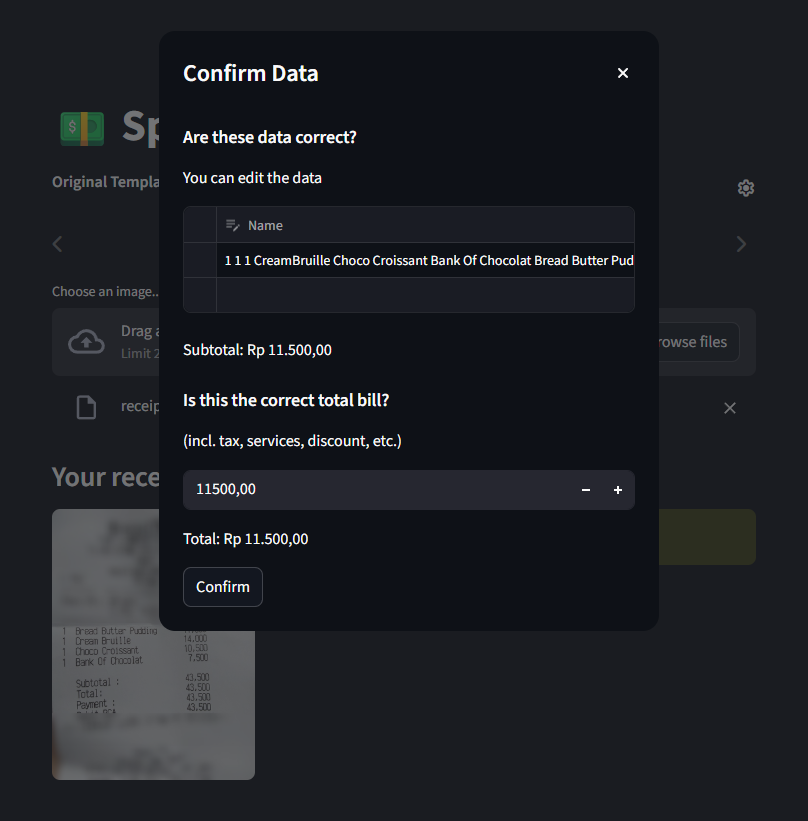
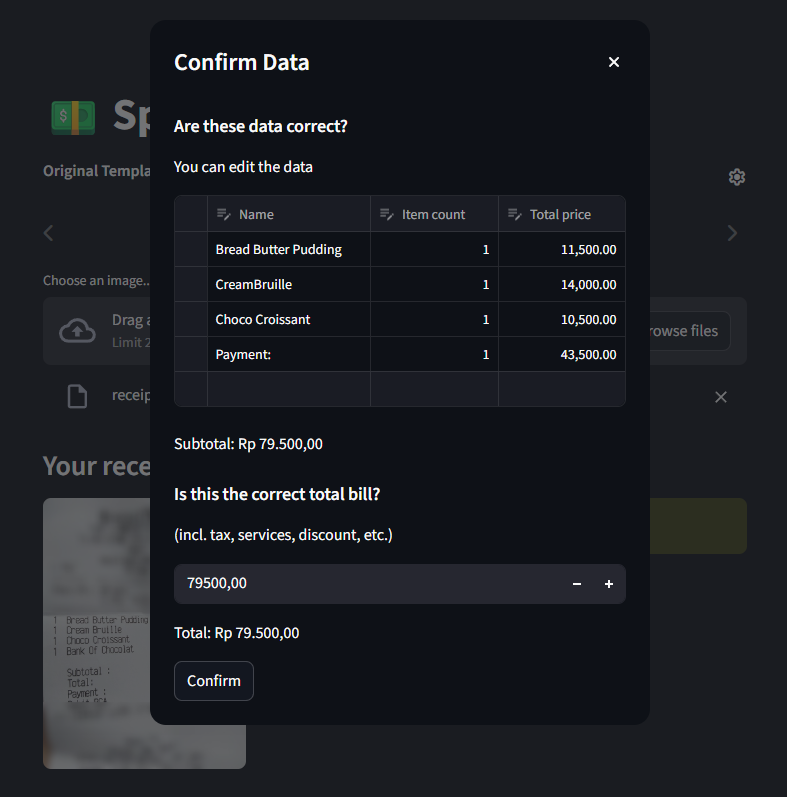
fix paddleocr logic and completed readme

diff --git a/modules/models/paddle_ocr.py b/modules/models/paddle_ocr.py
@@ -10,11 +10,7 @@ class PaddleOCRModel(AIModel):
         self.ocr = PaddleOCR(use_angle_cls=True, lang='en', use_gpu=False, show_log=False)
 
     def run(self, image: Image.Image) -> ReceiptData:
-        # 1. Prepare Image
         img_array = np.array(image.convert("RGB"))
-        
-        # 2. Run OCR
-        # result is a list of [box, (text, confidence)]
         result = self.ocr.ocr(img_array, cls=True)
         
         raw_elements = []
@@ -22,23 +18,30 @@ class PaddleOCRModel(AIModel):
             for line in result[0]:
                 box = line[0]
                 text = line[1][0]
-                # Use the center Y-coordinate for more stable line grouping
-                y_center = (box[0][1] + box[2][1]) / 2
+                # Calculate center Y and height of the text box
+                y_top = box[0][1]
+                y_bottom = box[2][1]
+                y_center = (y_top + y_bottom) / 2
+                height = y_bottom - y_top
                 x_start = box[0][0]
-                raw_elements.append({"text": text, "y": y_center, "x": x_start})
+                raw_elements.append({"text": text, "y": y_center, "x": x_start, "h": height})
 
-        # 3. Group fragments into horizontal lines
-        # Sort by Y, then group items within 20 pixels of each other
-        lines = self._group_text_to_lines(raw_elements)
+        # Dynamic threshold based on average text height
+        if raw_elements:
+            avg_height = sum(e['h'] for e in raw_elements) / len(raw_elements)
+            # Group items only if they are within 40% of the text height vertically
+            threshold = avg_height * 0.4 
+        else:
+            threshold = 10
+
+        lines = self._group_text_to_lines(raw_elements, threshold=threshold)
         
-        # Debug: Print to terminal to see what Paddle detected
-        print("--- PaddleOCR Detected Lines ---")
+        print("--- PaddleOCR Grouped Lines ---")
         for l in lines: print(l)
         print("--------------------------------")
 
-        # 4. Parse lines into ReceiptData
         return self._formatting(lines)
-
+    
     def _group_text_to_lines(self, elements, threshold=20):
         if not elements: return []
         
@@ -90,8 +93,10 @@ class PaddleOCRModel(AIModel):
                 elif any(k in lower_name for k in ["tax", "pajak", "service", "sub", "disc", "pax", "qty"]):
                     continue
                 elif len(name_part) > 2:
-                    # Clean up trailing numbers from name (like the Quantity '1')
+                    # Clean quantity "1 " from start or end
+                    name_part = re.sub(r'^\d+\s+', '', name_part)
                     name_part = re.sub(r'\s+\d+$', '', name_part)
+
                     items.append(ItemData(name=name_part, count=1, total_price=clean_price))
 
         # Fallback: Sum items if no total found

diff --git a/README.md b/README.md
@@ -1,138 +1,175 @@
-# Split Bill Application
+# Aplikasi Split Bill
 
-This repository contains AI-based application for splitting-bill, written on python (streamlit) and can be run on your local computer. 
+Repositori ini berisi aplikasi berbasis AI untuk membagi tagihan (*split-bill*), ditulis dalam bahasa Python (Streamlit) dan dapat dijalankan di komputer lokal Anda.
 
-Courtesy of: https://github.com/MukhlasAdib
+Atas izin dari: https://github.com/MukhlasAdib
 
-## Features
+## Fitur
 
-With this application, you can upload a photo of your receipt. The AI will read the receipt and show you the data.
+Dengan aplikasi ini, Anda dapat mengunggah foto struk belanja Anda. AI akan membaca struk tersebut dan menampilkan datanya kepada Anda.
 
 ![receipt-data-page](figs/receipt-data-page.jpg)
 
-Then, you can list participants of your split-bill, and then assign items from the receipt to each of them.
+Kemudian, Anda dapat mendaftarkan peserta yang ikut dalam pembagian tagihan, lalu menetapkan item dari struk ke masing-masing peserta.
 
 ![assign-page](figs/assign-page.jpg)
 
-When you are done, final report will be shown.
+Setelah selesai, laporan akhir akan ditampilkan.
 
 ![report-page](figs/report-page.jpg)
 
-## Installation
+## Instalasi
 
-1. Make sure Python is installed (any recent version should be fine, I tested with Python 3.12)
-2. Create environment for this application
+1. Pastikan Python sudah terinstal (versi terbaru apa saja seharusnya bisa, saya mengujinya dengan Python 3.12).
+2. Buat *environment* untuk aplikasi ini.
 
-with virtualenv:
+Menggunakan virtualenv:
 
 ```bash
     pip install virtualenv
-    python -m virtualenv .ven
+    python -m virtualenv .venv
 ```
-with uv:
+Menggunakan uv:
 
 ```bash
     uv sync
 ```
 
-3. Activate the environment
+3. Aktifkan *environment* tersebut.
 
-if using Linux
+Jika menggunakan Linux:
 
 ```bash
     source .venv/bin/activate
 ```
 
-if using Windows
+Jika menggunakan Windows:
 
 ```powershell
     .\.venv\Scripts\activate
 ```
 
-4. Install required libraries
+4. Instal library yang dibutuhkan.
 
-with virtualenv:
+Menggunakan virtualenv:
 
 ```bash
     pip install -r requirements.txt
 ```
-with uv:
+Menggunakan uv:
 
 ```bash
     uv sync
 ```
 
-## Run Application
+## Menjalankan Aplikasi
 
-1. Activate the environment
+1. Aktifkan *environment*.
 
-if using Linux
+Jika menggunakan Linux:
 
 ```bash
     source .venv/bin/activate
 ```
 
-if using Windows
+Jika menggunakan Windows:
 
 ```powershell
     .\.venv\Scripts\activate
 ```
 
-2. Start the app
+2. Jalankan aplikasi.
 
-with virtualenv:
+Menggunakan virtualenv:
 
 ```bash
     streamlit run app.py
 ```
 
-with uv:
-
+Menggunakan uv:
 
 ```bash
     uv run streamlit run app.py
 ```
 
+## Pemilihan Model Alternatif
+
+Model Gemini dan Donut telah diimplementasi pada aplikasi ini. Pada tugas ini, dua model alternatif diimplementasikan.
+
+### 1. Microsoft Florence-2
+*   Florence-2 adalah *Vision Foundation Model* terbaru (2024) dari Microsoft yang menggunakan pendekatan berbasis *prompt* (seperti `<OCR>`).
+*   Model ini lebih ringan dibandingkan Donut, sehingga ideal untuk aplikasi lokal yang membutuhkan respon instan (1-2 detik).
+*   Sangat baik dalam mengenali teks pada gambar berkualitas rendah karena kemampuannya dalam memprediksi urutan karakter secara cerdas.
+
+### 2. PaddleOCR
+*   Berbeda dengan model generatif, PaddleOCR menggunakan metode *pipeline* (Deteksi $\rightarrow$ Klasifikasi $\rightarrow$ Rekognisi), yang merupakan standar industri untuk akurasi teks mentah.
+*   PaddleOCR bekerja berdasarkan koordinat *bounding box*. Hal ini mencegah error "penggabungan kolom" (seperti harga dan jumlah barang yang menyatu) yang sering terjadi pada model transformer seperti Florence atau Donut.
+*   Sebagai model ekstraksi literal, PaddleOCR tidak berhalusinasi atau memperbaiki teks secara otomatis, sehingga lebih konsisten dalam membaca angka dan simbol mata uang yang presisi.
+
 ## Demo
 
-Below are two samples of receipts read by this application using four models: Gemini, Donut, Florence, and PaddleOCR.
+Di bawah ini adalah dua contoh struk yang dibaca oleh aplikasi ini menggunakan empat model: Gemini, Donut, Florence, dan PaddleOCR.
 
-### Receipt 1
+### Struk 1
 
 ![receipt1](demo/receipt1.jpg)
 
-Gemini result:
+Hasil Gemini:
 
 ![gemini1](demo/gemini1.png)
 
-Donut result:
+Hasil Donut:
 
 ![donut1](demo/donut1.png)
 
-Florence result:
+Hasil Florence:
 
 ![florence1](demo/florence1.png)
 
-PaddleOCR result:
+Hasil PaddleOCR:
 
 ![paddleocr1](demo/paddleocr1.png)
 
-### Receipt 2
+### Struk 2
 
 ![receipt2](demo/receipt2.jpeg)
 
-Gemini result:
+Hasil Gemini:
 
 ![gemini2](demo/gemini2.png)
 
-Donut result:
+Hasil Donut:
 
 ![donut2](demo/donut2.png)
 
-Florence result:
+Hasil Florence:
 
 ![florence2](demo/florence2.png)
 
-PaddleOCR result:
+Hasil PaddleOCR:
 
 ![paddleocr2](demo/paddleocr2.png)
+
+## Evaluasi & Analisis
+
+Evaluasi kualitatif terhadap model pembaca bill:
+
+* **Akurasi**: Dalam hal akurasi bacaan, model Gemini dan model Donut memiliki akurasi yang paling tinggi (tidak ada kesalahan pada kedua sampel struk). Model PaddleOCR berada di posisi berikutnya. Pada struk 1, model mendeteksi lekukan kertas sebagai karakter "T-", sedangkan pada struk 2, model gagal mendeteksi item terakhir dan justru mendeteksi "Payment:" sebagai item. Model Florence berada di posisi terakhir. Pada struk 1, model mendeteksi angka kuantitas sebagai angka awal pada harga item serta keliru membaca subtotal, sedangkan pada struk 2, perbedaan struktur kolom pada struk membuat model mendeteksi angka kuantitas (1) sebagai digit harga, dan juga gagal mendeteksi total harga dengan tepat.
+
+* **Kecepatan**: Pada aplikasi ini, model Donut, Gemini, dan PaddleOCR memiliki kecepatan yang relatif tinggi dan tidak jauh berbeda. Model Florence memiliki kecepatan inference yang paling lama dibandingkan ketiganya.
+
+Evaluasi produk web secara keseluruhan:
+
+* Secara keseluruhan, aplikasi menyajikan _user experience_ yang terasa baik, dengan alur unggah struk, koreksi tulisan, dan _splitting_ yang mudah diikuti dan intuitif.
+
+* Ketika ingin mengganti model atau mengunggah foto struk lain, aplikasi terkadang terasa _buggy_, sehingga perlu dilakukan _refresh page_ setiap kali ingin melakukan perubahan model atau foto struk.
+
+**Perbaikan**: Untuk _improvement_, beberapa hal dapat dilakukan:
+
+* Tambahkan atau perbaiki proses _noise removal_ pada gambar struk yang diunggah supaya kerutan kertas, debu, atau _noise_ lainnya tidak akan terdeteksi oleh model yang lebih sensitif seperti PaddleOCR.
+
+* Perbaiki _keyword filtering_ menjadi lebih ketat supaya tidak ada baris tulisan lain yang terdeteksi sebagai item.
+
+* Tambahkan tahapan perbaikan orientasi dalam _preprocessing_ gambar struk supaya model mampu meng-_handle_ teks dari gambar struk yang tertekuk atau berposisi miring dengan tepat.
+
+* Coba gunakan model LLM lokal seperti Qwen2-VL atau Llama 3.2 Vision yang memiliki kemampuan serupa dengan Gemini tanpa unggahan data ke server Google.
